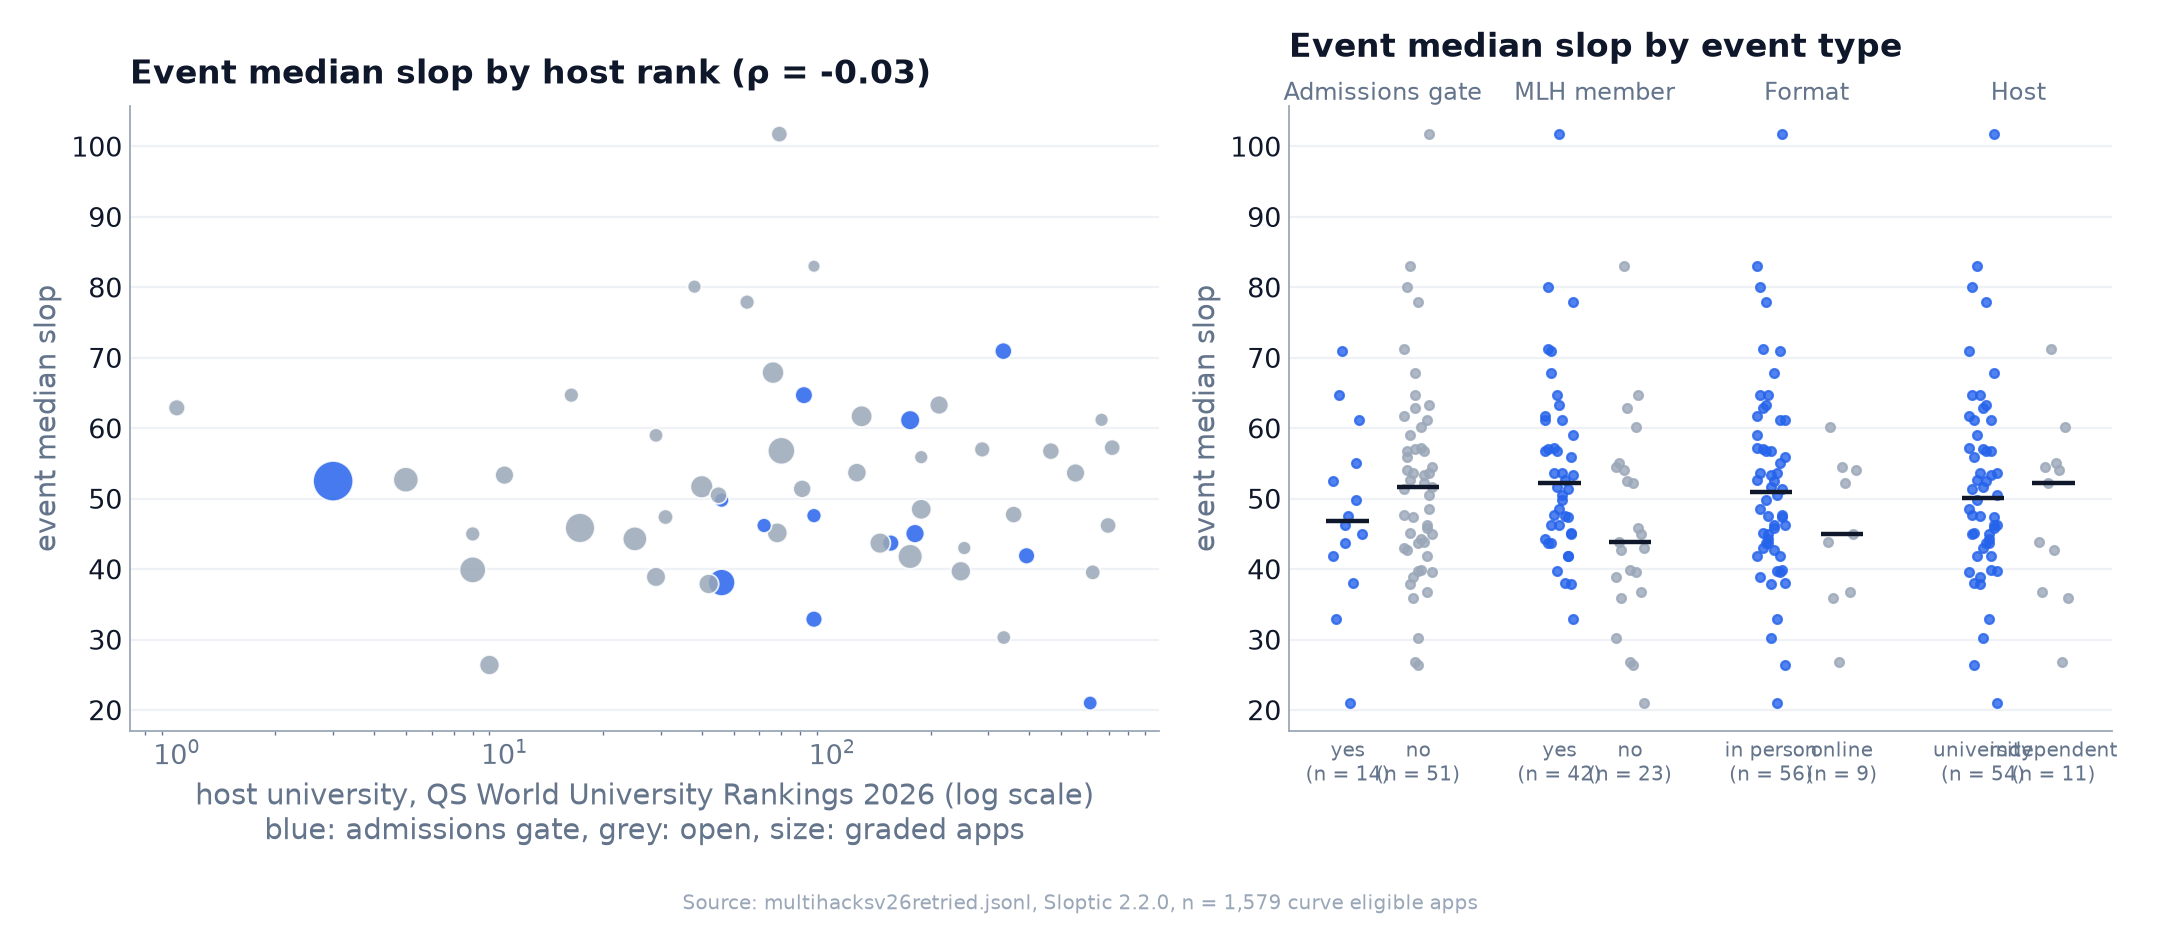
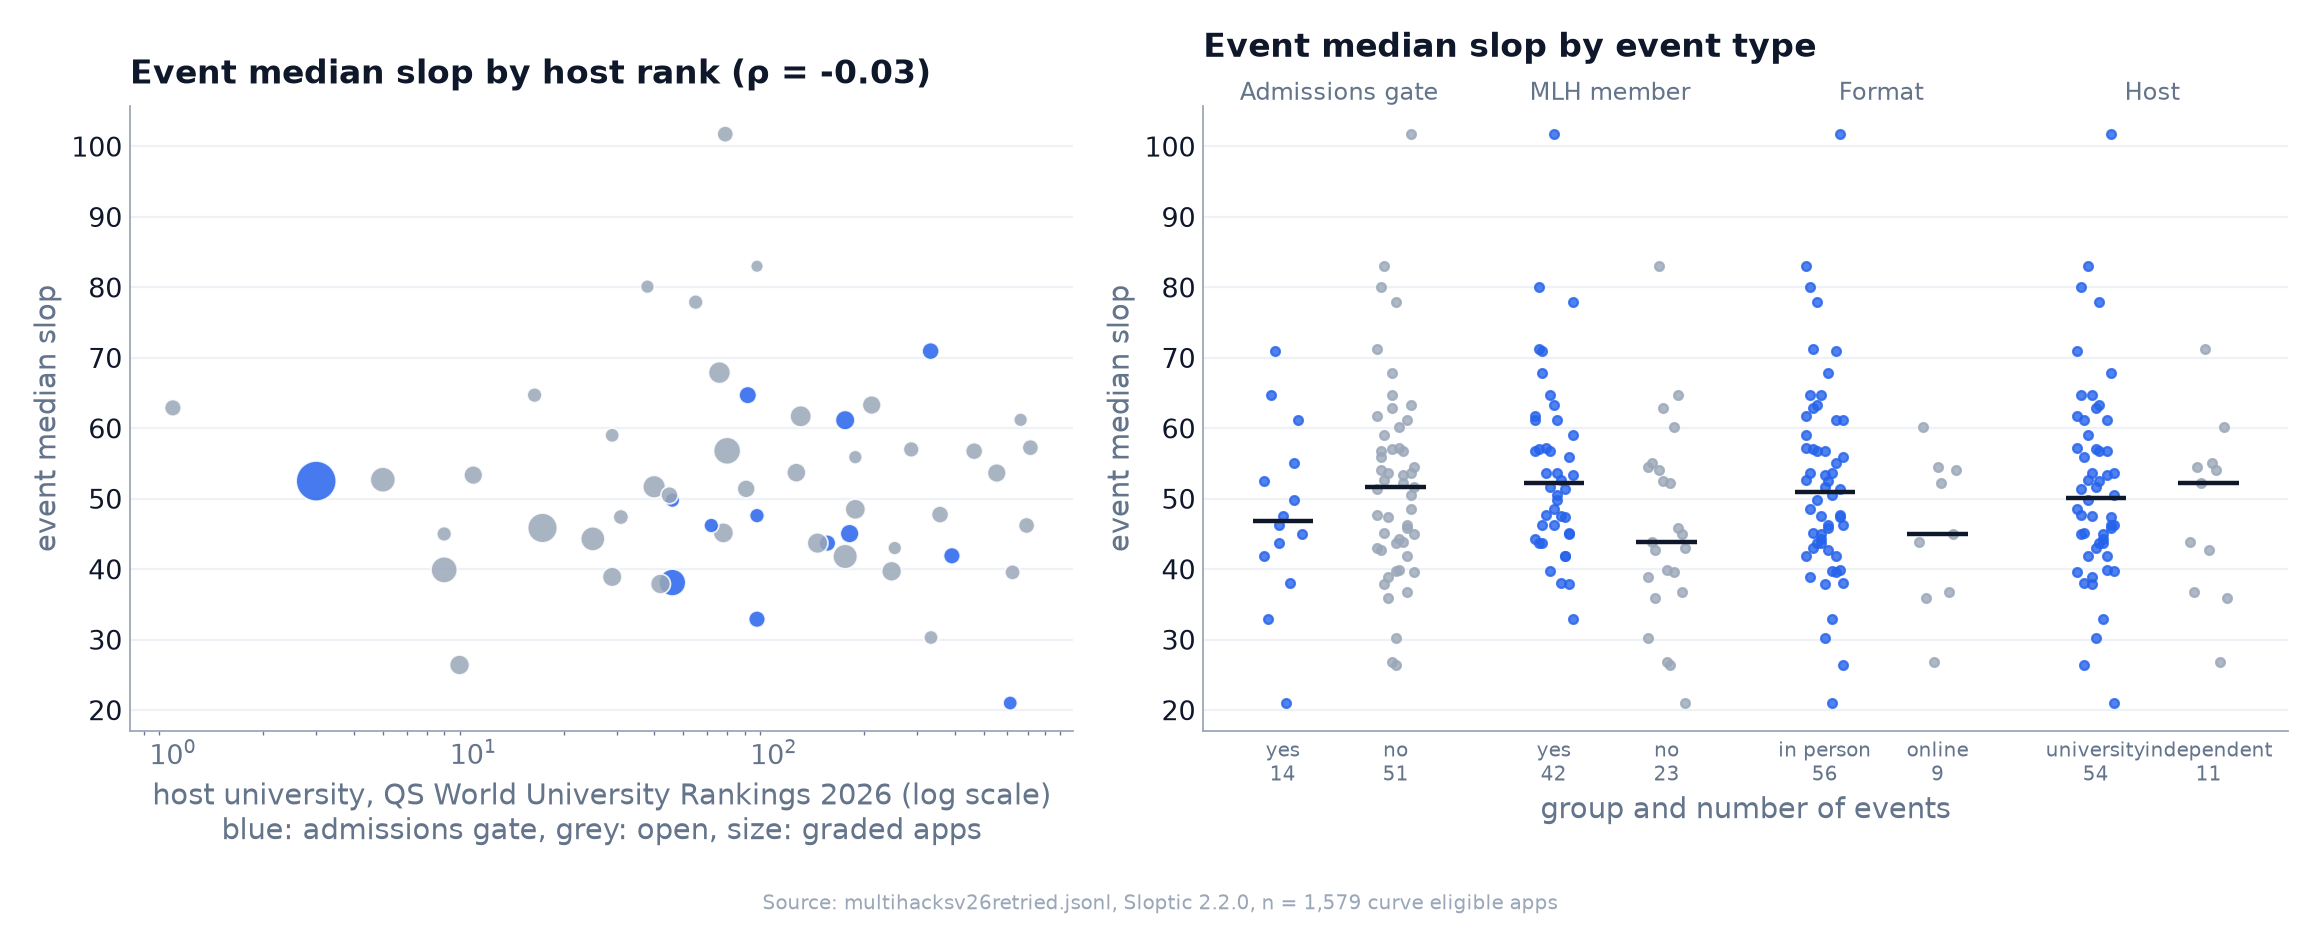
feat(charts): link rot figure 14 and scripted run to run flip rates
fig14 plots the dead URL share by months between the event and the grade, with Wilson
intervals, plus per URL, per event and survivor slop tests. stats.py --charts --repeat PREV
writes reliability.csv: verdict flip rates by probe family on the curve eligible apps graded
unchallenged in both runs. Figure 13's right panel is widened so its tick labels no longer
collide.

diff --git a/scripts/charts.py b/scripts/charts.py
@@ -625,7 +625,7 @@ def fig_prestige(ctx, graded, ss):
                      len(a), len(b), float(ss.mannwhitneyu(a, b, alternative="two-sided").pvalue),
                      f"median of event medians {statistics.median(a):.1f} vs {statistics.median(b):.1f}"])
 
-    fig, (a1, a2) = ctx.plt.subplots(1, 2, figsize=(13.5, 5.8), gridspec_kw={"width_ratios": [1.25, 1]})
+    fig, (a1, a2) = ctx.plt.subplots(1, 2, figsize=(14.5, 5.8), gridspec_kw={"width_ratios": [1, 1.15]})
     gate = [e["admissions_gate"] == "yes" for e in ranked]
     a1.scatter(x, y, s=[18 + 3 * e["n"] for e in ranked], c=[ACCENT if g else MUTED for g in gate],
                alpha=0.85, edgecolors="white", linewidths=0.8, zorder=3)
@@ -639,16 +639,17 @@ def fig_prestige(ctx, graded, ss):
     for i, (key, label, a_val, b_val) in enumerate(_FACTORS):
         for j, val in enumerate((a_val, b_val)):
             pts = [e["median"] for e in ev if e[key] == val]
-            xpos = i * 3 + j
-            xs.append((xpos, f"{val.replace('_', ' ')}\n(n = {len(pts)})"))
-            jit = [xpos + ((k * 37) % 11 - 5) * 0.04 for k in range(len(pts))]
+            xpos = i * 3.6 + j * 1.5
+            xs.append((xpos, f"{val.replace('_', ' ')}\n{len(pts)}"))
+            jit = [xpos + ((k * 37) % 11 - 5) * 0.05 for k in range(len(pts))]
             a2.scatter(jit, pts, s=16, color=ACCENT if j == 0 else MUTED, alpha=0.8, zorder=3)
             if pts:
-                a2.hlines(statistics.median(pts), xpos - 0.3, xpos + 0.3, color=INK, lw=2, zorder=4)
-        a2.text(i * 3 + 0.5, 1.0, label, transform=a2.get_xaxis_transform(), ha="center", va="bottom",
+                a2.hlines(statistics.median(pts), xpos - 0.4, xpos + 0.4, color=INK, lw=2, zorder=4)
+        a2.text(i * 3.6 + 0.75, 1.0, label, transform=a2.get_xaxis_transform(), ha="center", va="bottom",
                 fontsize=11, color=FAINT)
     a2.set_xticks([t for t, _ in xs])
     a2.set_xticklabels([l for _, l in xs], fontsize=9)
+    a2.set_xlabel("group and number of events")
     a2.set_ylabel("event median slop")
     a2.set_title("Event median slop by event type", loc="left", pad=22, fontsize=15)
     _style(a2)
@@ -660,7 +661,109 @@ def fig_prestige(ctx, graded, ss):
     return rows
 
 
-def render_all(graded, figures, out_dir="docs/charts", run_name="run.jsonl"):
+# ---- link rot and run to run reliability --------------------------------------------------------------
+def _event_start(dates):
+    """Devpost's submission period ("Feb 14 - 15, 2026") -> its start date, or None when it has no day."""
+    import datetime as dt
+    import re
+    m = re.match(r"([A-Z][a-z]{2}) (\d{1,2})", dates or "")
+    y = re.search(r"(20\d\d)", dates or "")
+    if not (m and y):
+        return None
+    return dt.date(int(y.group(1)), dt.datetime.strptime(m.group(1), "%b").month, int(m.group(2)))
+
+
+_ROT_BINS = [(0, 3), (3, 6), (6, 9), (9, 12), (12, 18), (18, 60)]
+
+
+def fig_link_rot(ctx, recs, ss, graded=()):
+    """Share of submitted URLs that were dead at grading time, by months between the event and the grade."""
+    import datetime as dt
+    import math
+    if not EVENTS_CSV.exists():
+        return []
+    start = {r["slug"]: _event_start(r["dates"]) for r in csv.DictReader(open(EVENTS_CSV))}
+    pts = []   # (months since event, dead, event)
+    for r in recs:
+        d0, ts = start.get(r.get("hackathon")), r.get("ts")
+        if d0 and ts:
+            months = (dt.datetime.fromtimestamp(ts, dt.timezone.utc).date() - d0).days / 30.44
+            pts.append((months, bool(r.get("dead_url")), r["hackathon"]))
+    rows, labels, rates, errs = [], [], [], [[], []]
+    for lo, hi in _ROT_BINS:
+        g = [dead for m, dead, _ in pts if lo <= m < hi]
+        n, k = len(g), sum(g)
+        z = 1.96   # Wilson 95% interval
+        c = (k + z * z / 2) / (n + z * z)
+        h = z * math.sqrt(k * (n - k) / n + z * z / 4) / (n + z * z)
+        rate = 100 * k / n
+        labels.append(f"{lo} to {hi}" if hi < 60 else f"{lo}+")
+        rates.append(rate)
+        errs[0].append(rate - 100 * (c - h))
+        errs[1].append(100 * (c + h) - rate)
+        rows.append([labels[-1], n, k, round(rate, 1), round(100 * (c - h), 1), round(100 * (c + h), 1)])
+    fig, ax = ctx.plt.subplots(figsize=(10, 5.6))
+    x = list(range(len(rates)))
+    ax.bar(x, rates, width=0.62, color=MUTED, zorder=3)
+    ax.errorbar(x, rates, yerr=errs, fmt="none", ecolor=INK, elinewidth=1.3, capsize=5, zorder=4)
+    top = max(r + e for r, e in zip(rates, errs[1]))
+    for xi, r, row in zip(x, rates, rows):
+        ax.text(xi, top * 1.04, f"{r:.0f}%\nn = {row[1]:,}", ha="center", va="bottom", fontsize=11, color=INK)
+    ax.set_ylim(0, top * 1.28)
+    ax.set_xticks(x)
+    ax.set_xticklabels(labels)
+    ax.set_xlabel("months between the event and the grade")
+    ax.set_ylabel("dead links, % of submitted URLs (95% CI)")
+    ax.set_title("Dead links by event age", loc="left", pad=12)
+    _style(ax)
+    ctx.finish(fig, "fig14_link_rot")
+    _write_csv(ctx.out / "fig14_link_rot.csv", ["months", "urls", "dead", "dead_pct", "ci_low", "ci_high"], rows)
+    out = []
+    r_pb, p_pb = ss.pointbiserialr([dead for _, dead, _ in pts], [m for m, _, _ in pts])
+    out.append(["link rot: dead URL vs months since the event, per URL", "point biserial", len(pts), "",
+                float(p_pb), f"r {float(r_pb):.3f}; URLs from one event are not independent, see the event test"])
+    by = defaultdict(list)
+    for m, dead, e in pts:
+        by[e].append((m, dead))
+    ev = [(statistics.mean(m for m, _ in v), sum(d for _, d in v) / len(v)) for v in by.values() if len(v) >= 10]
+    rho, p = ss.spearmanr([a for a, _ in ev], [b for _, b in ev])
+    out.append(["link rot: event dead URL rate vs event age", "Spearman, events with 10+ URLs", len(ev), "",
+                float(p), f"rho {float(rho):.3f}"])
+    age = {e: statistics.mean(m for m, _ in v) for e, v in by.items()}
+    gs = defaultdict(list)
+    for r in graded:
+        if r.get("hackathon") in age:
+            gs[r["hackathon"]].append(r["slop_score"])
+    sv = [(age[e], statistics.median(v)) for e, v in gs.items() if len(v) >= MIN_EVENT_APPS]
+    rho2, p2 = ss.spearmanr([a for a, _ in sv], [b for _, b in sv])
+    out.append(["survivors: event median slop vs event age", "Spearman, events with 5+ graded apps", len(sv), "",
+                float(p2), f"rho {float(rho2):.3f}"])
+    return out
+
+
+def reliability(ctx, graded, prev):
+    """Run to run stability: on apps graded (curve eligible, unchallenged) in both runs, the share of probe verdicts
+    that fired in one run but not the other, by probe family. Needs a second run of the same corpus."""
+    fam = lambda p: ("security headers" if p.startswith("sec-headers") else "accessibility (axe)" if p == "qa-a11y-001"  # noqa: E731
+                     else "crash resistance" if p.startswith("qa-crash") else "Lighthouse below 90"
+                     if p == "perf-lighthouse-001" else "all other probes")
+    cur = {r["repo"]: r for r in graded if not r.get("bot_challenge")}
+    old = {r["repo"]: r for r in prev if not r.get("bot_challenge")}
+    both = [k for k in cur if k in old]
+    agg = defaultdict(lambda: [0, 0])
+    for k in both:
+        a = {f["probe_id"] for f in cur[k].get("findings") or [] if _scored(f)}
+        b = {f["probe_id"] for f in old[k].get("findings") or [] if _scored(f)}
+        for pid in a | b:
+            agg[fam(pid)][0] += 1
+            agg[fam(pid)][1] += (pid in a) != (pid in b)
+    rows = [[f, len(both), n, k, round(100 * k / n, 1)] for f, (n, k) in sorted(agg.items(), key=lambda x: -x[1][0])]
+    _write_csv(ctx.out / "reliability.csv", ["probe_family", "apps_in_both_runs", "verdicts_fired_in_either",
+                                             "flipped", "flip_pct"], rows)
+    return rows
+
+
+def render_all(graded, figures, out_dir="docs/charts", run_name="run.jsonl", recs=None, prev=None):
     """Render every report figure (+ sibling CSVs) and tests.csv into out_dir. `graded` is the curve eligible
     population (stats._is_graded) and `figures` is corpus_json() over the same run."""
     try:
@@ -693,5 +796,10 @@ def render_all(graded, figures, out_dir="docs/charts", run_name="run.jsonl"):
     fig_lighthouse(ctx, figures, graded)
     fig_a11y(ctx, graded)
     fig_reach(ctx, figures)
-    tests(ctx, graded, ss, extra=fig_prestige(ctx, graded, ss))
+    extra = fig_prestige(ctx, graded, ss)
+    if recs is not None:
+        extra += fig_link_rot(ctx, recs, ss, graded)
+    if prev is not None:
+        reliability(ctx, graded, prev)
+    tests(ctx, graded, ss, extra=extra)
     return sorted(str(p) for p in out.glob("*") if p.suffix in (".png", ".csv"))

diff --git a/scripts/stats.py b/scripts/stats.py
@@ -1832,6 +1832,9 @@ def main():
     ap.add_argument("--charts", action="store_true",
                     help="render the CORPUS_REPORT figures (+ sibling CSVs and tests.csv) to docs/charts/, then exit "
                          "(needs matplotlib + scipy: `uv run --with matplotlib --with scipy`)")
+    ap.add_argument("--repeat", metavar="PREV",
+                    help="with --charts: a second run of the same corpus; writes run to run verdict flip rates to "
+                         "docs/charts/reliability.csv")
     # --- PARITY mode (cross stack visibility): observed vs expected surface, blind spots ---
     ap.add_argument("--parity", action="store_true", help="run the cross stack PARITY dashboard instead of the report")
     ap.add_argument("--by", default="routing", choices=["routing", "framework", "api_style"],
@@ -1910,8 +1913,9 @@ def main():
     if args.charts:
         from charts import render_all
         run = pathlib.Path(args.results)
+        prev = [r for r in load(args.repeat) if _is_graded(r)] if args.repeat else None
         written = render_all([r for r in recs if _is_graded(r)], corpus_json(recs, corpus_id=run.name.split(".jsonl")[0]),
-                             run_name=run.name)
+                             run_name=run.name, recs=recs, prev=prev)
         print(f"wrote {len(written)} charts + sibling CSVs to docs/charts/ (run: {pathlib.Path(args.results).name})")
         for p in written:
             print("  " + p)
